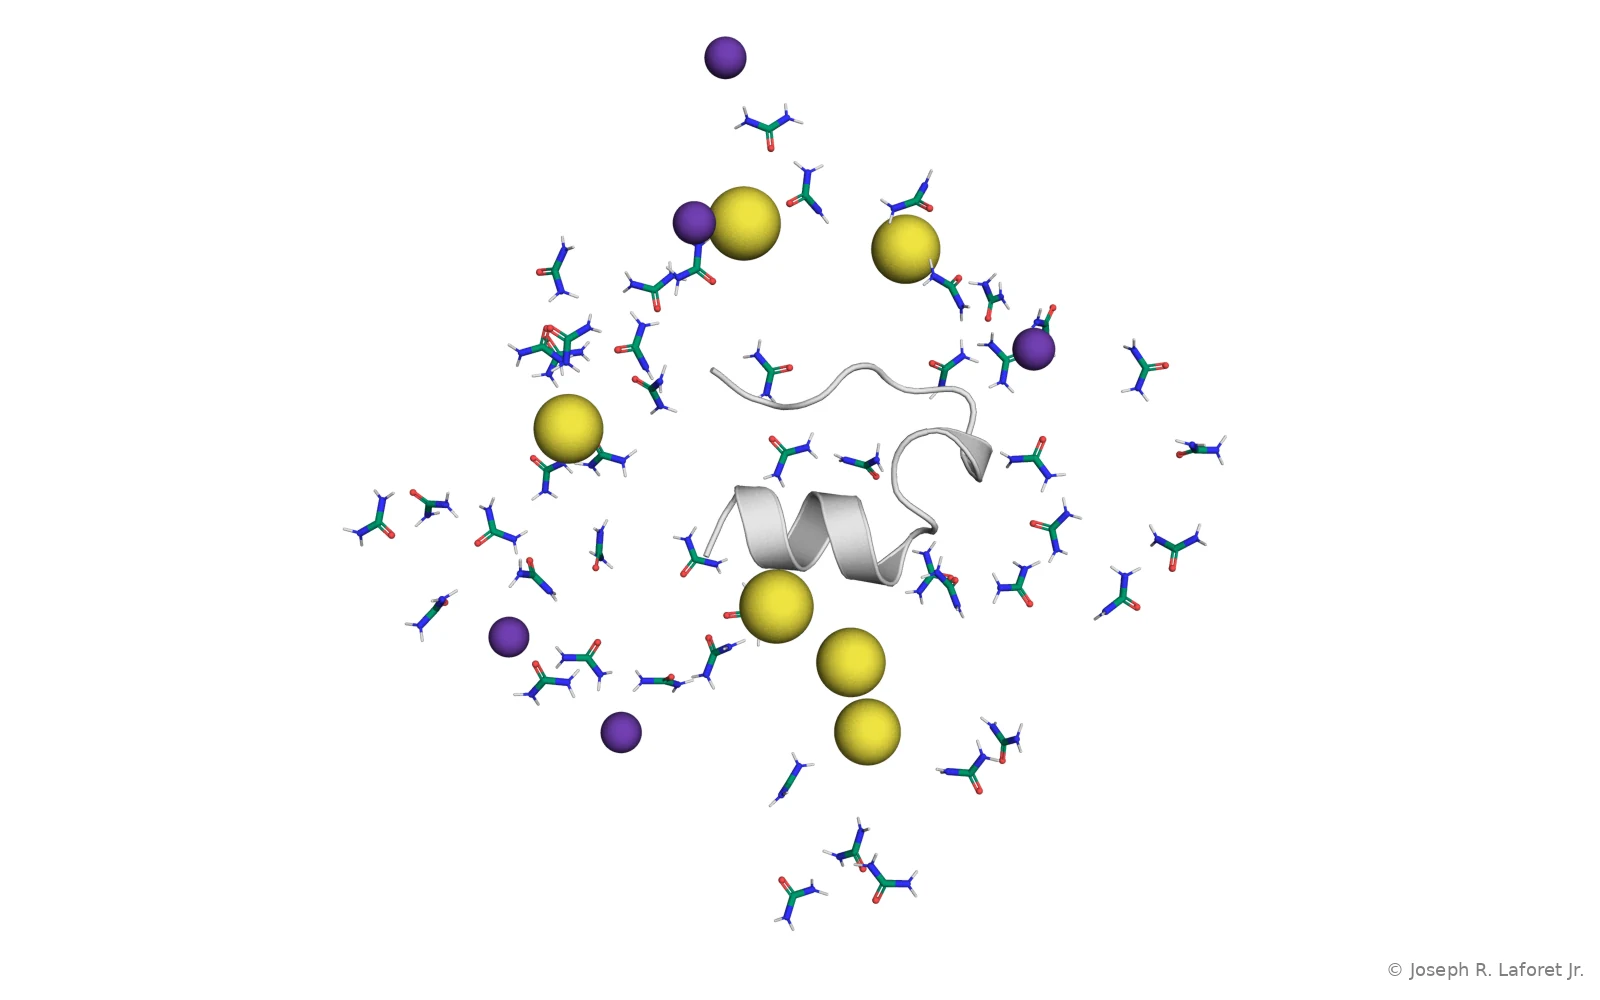
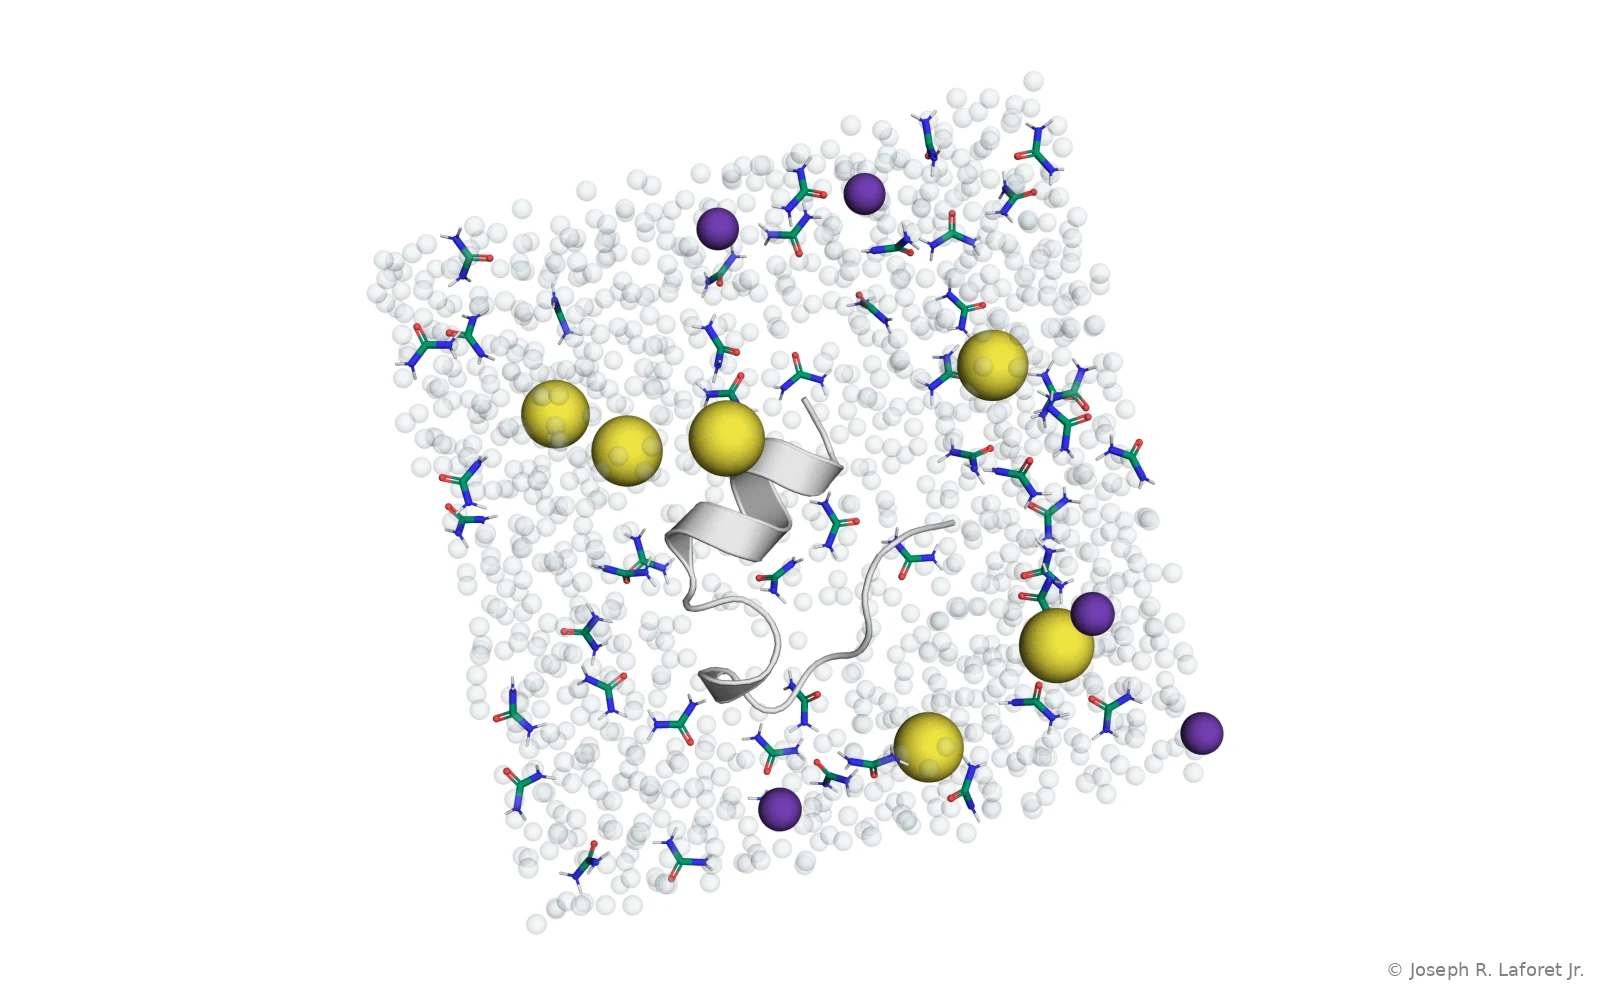
Docs renders: gray protein, a tighter cavity view, water in the co-solvent picture
The protein is gray in every render, so color can mark the groups that
matter (Joe's rule); the restraint picture zooms in until the flat-bottom
sphere fills the frame; the co-solvent picture shows the water with the
urea; the water is lighter so a gray protein stands out.

Changed region(s): [[0.2188, 0.093, 0.7812, 0.93], [0.4375, 0.031, 0.4688, 0.093]]

diff --git a/docs/source/get_started/quickstart.md b/docs/source/get_started/quickstart.md
@@ -220,9 +220,9 @@ runs/trpcage/water/trpcage_300K_run1/
 ```{figure} ../_static/renders/quickstart_system.webp
 :figclass: pz-render
 :class: dark-light
-:alt: Trp-cage, a 20-residue protein drawn as a blue cartoon with its side chains, inside a box of water molecules shown as small gray spheres, with a few sodium and chloride ions as larger purple and yellow spheres.
+:alt: Trp-cage, a 20-residue protein drawn as a gray cartoon with its side chains, inside a box of water molecules shown as small gray spheres, with a few sodium and chloride ions as larger purple and yellow spheres.
 
-The system you just built (`solvated_system.pdb`): Trp-cage (blue) in its
+The system you just built (`solvated_system.pdb`): Trp-cage (gray) in its
 rhombic dodecahedron of TIP3P water, with Na⁺ (purple) and Cl⁻ (yellow) at
 0.15 M plus the ions that neutralize the protein. Water is drawn as its
 oxygens; the water in front of the protein is cut away.

diff --git a/docs/source/how_to/cosolvents.md b/docs/source/how_to/cosolvents.md
@@ -9,11 +9,11 @@ GROMACS.
 ```{figure} ../_static/renders/cosolvent.webp
 :figclass: pz-render
 :class: dark-light
-:alt: Trp-cage drawn as a gray cartoon, surrounded by urea molecules with green carbons and by sodium and chloride ions as purple and yellow spheres.
+:alt: Trp-cage drawn as a gray cartoon in a box of water, shown as small light spheres, with urea molecules with green carbons and sodium and chloride ions as purple and yellow spheres.
 
 The shipped example `examples/cosolvent`: Trp-cage (gray) in 2 M urea (green
-carbons), with Na⁺ (purple) and Cl⁻ (yellow). The water is hidden, and the
-urea in front of the protein is cut away.
+carbons) and water, with Na⁺ (purple) and Cl⁻ (yellow). Water is drawn as its
+oxygens; the water and urea in front of the protein are cut away.
 ```
 
 :::{admonition} Environment setup
